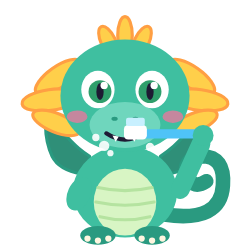
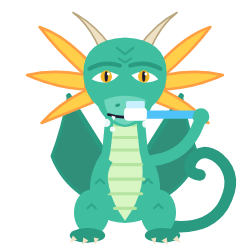
Make Glory look older: graphic-novel style instead of a baby dragon
Horned head on a neck, narrow slit-pupil eyes under brow ridges, a pointed
RainWing ruff, slimmer body and a long curling tail; no blush cheeks. The
jungle bugs get small glowing eyes instead of googly ones. Mouth and teeth
positions move up to match the new head.

diff --git a/prototype/themes/dragon.js b/prototype/themes/dragon.js
@@ -5,6 +5,8 @@
 
   const sparkle = 'M0-11Q2-2 11 0Q2 2 0 11Q-2 2-11 0Q-2-2 0-11Z';
 
+  // Drawn in the style of the graphic novels rather than as a baby dragon: horned head on a
+  // neck, narrow slit-pupil eyes under brow ridges, pointed ruff, long prehensile tail.
   const character = `
 <svg viewBox="0 0 240 240" aria-label="Glory">
   <g class="sparkles">
@@ -16,116 +18,121 @@
 
   <g class="body-all">
     <g class="wings-folded">
-      <path class="wing" d="M86 150 Q58 132 46 100 Q40 128 50 150 Q58 166 88 168 Z"/>
-      <path class="wing" d="M154 150 Q182 132 194 100 Q200 128 190 150 Q182 166 152 168 Z"/>
+      <path class="wing" d="M100 146 L66 92 Q60 124 50 150 Q60 176 84 190 L102 172 Z"/>
+      <path class="wing" d="M140 146 L174 92 Q180 124 190 150 Q180 176 156 190 L138 172 Z"/>
+      <path class="wing-bone" d="M100 146 L66 92 M140 146 L174 92"/>
     </g>
     <g class="wings-open">
-      <path class="wing" d="M92 150 L26 66 Q34 96 14 112 Q36 118 26 142 Q50 142 46 166 Q68 158 92 170 Z"/>
-      <path class="wing" d="M148 150 L214 66 Q206 96 226 112 Q204 118 214 142 Q190 142 194 166 Q172 158 148 170 Z"/>
-      <path class="wing-bone" d="M92 150 L26 66 M148 150 L214 66"/>
+      <path class="wing" d="M98 148 L26 62 Q34 94 14 110 Q36 116 26 140 Q50 140 46 164 Q68 156 96 172 Z"/>
+      <path class="wing" d="M142 148 L214 62 Q206 94 226 110 Q204 116 214 140 Q190 140 194 164 Q172 156 144 172 Z"/>
+      <path class="wing-bone" d="M98 148 L26 62 M142 148 L214 62 M74 104 L36 116 M166 104 L204 116"/>
     </g>
 
-    <path class="tail" d="M158 206 Q212 214 214 178 Q216 150 194 150 Q174 152 180 170 Q186 182 198 174"/>
+    <path class="tail" d="M146 214 Q196 226 214 198 Q230 170 210 152 Q194 140 184 154 Q178 166 192 168"/>
 
-    <ellipse class="scale" cx="120" cy="184" rx="50" ry="44"/>
-    <ellipse class="belly" cx="120" cy="194" rx="30" ry="32"/>
-    <path class="belly-lines" d="M94 180 Q120 186 146 180 M92 194 Q120 200 148 194 M96 208 Q120 214 144 208"/>
-    <ellipse class="scale-dark" cx="94"  cy="226" rx="17" ry="9"/>
-    <ellipse class="scale-dark" cx="146" cy="226" rx="17" ry="9"/>
+    <ellipse class="scale" cx="88" cy="204" rx="17" ry="22"/>
+    <ellipse class="scale" cx="152" cy="204" rx="17" ry="22"/>
+    <path class="scale" d="M102 104 L98 146 Q78 176 92 206 Q120 222 148 206 Q162 176 142 146 L138 104 Z"/>
+    <path class="belly" d="M110 108 Q120 112 130 108 L134 146 Q144 180 120 212 Q96 180 106 146 Z"/>
+    <path class="belly-lines" d="M110 120 H130 M109 132 H131 M108 144 H132 M104 158 H136 M102 172 H138 M104 186 H136 M110 200 H130"/>
+    <ellipse class="scale-dark" cx="84" cy="226" rx="17" ry="7"/>
+    <ellipse class="scale-dark" cx="156" cy="226" rx="17" ry="7"/>
     <g class="claws">
-      <circle cx="84" cy="229" r="3"/><circle cx="94" cy="231" r="3"/><circle cx="104" cy="229" r="3"/>
-      <circle cx="136" cy="229" r="3"/><circle cx="146" cy="231" r="3"/><circle cx="156" cy="229" r="3"/>
+      <path d="M70 226 l-3 7 l7 -3Z M80 228 l-1 7 l6 -4Z M90 228 l1 7 l4 -6Z"/>
+      <path d="M170 226 l3 7 l-7 -3Z M160 228 l1 7 l-6 -4Z M150 228 l-1 7 l-4 -6Z"/>
     </g>
-    <ellipse class="scale arm" cx="76" cy="186" rx="11" ry="17" transform="rotate(25 76 186)"/>
-    <ellipse class="scale arm arm-r" cx="164" cy="186" rx="11" ry="17" transform="rotate(-25 164 186)"/>
+    <path class="scale arm" d="M100 150 Q88 166 96 186 Q102 190 106 184 Q100 168 108 156 Z"/>
+    <path class="scale arm arm-r" d="M140 150 Q152 166 144 186 Q138 190 134 184 Q140 168 132 156 Z"/>
+    <path class="texture" d="M92 176 l4 -4 l4 4 M146 176 l-4 -4 l-4 4 M84 200 l4 -4 l4 4 M156 200 l-4 -4 l-4 4"/>
 
     <g class="frills">
-      <ellipse cx="56"  cy="74"  rx="26" ry="10" transform="rotate(-35 56 74)"/>
-      <ellipse cx="48"  cy="96"  rx="27" ry="10" transform="rotate(-8 48 96)"/>
-      <ellipse cx="54"  cy="118" rx="24" ry="9"  transform="rotate(22 54 118)"/>
-      <ellipse cx="184" cy="74"  rx="26" ry="10" transform="rotate(35 184 74)"/>
-      <ellipse cx="192" cy="96"  rx="27" ry="10" transform="rotate(8 192 96)"/>
-      <ellipse cx="186" cy="118" rx="24" ry="9"  transform="rotate(-22 186 118)"/>
-      <ellipse cx="104" cy="40"  rx="7"  ry="16" transform="rotate(-25 104 40)"/>
-      <ellipse cx="120" cy="34"  rx="7"  ry="18"/>
-      <ellipse cx="136" cy="40"  rx="7"  ry="16" transform="rotate(25 136 40)"/>
+      <path d="M86 60 Q62 34 38 26 Q56 50 84 74 Z"/>
+      <path d="M82 72 Q52 66 26 72 Q52 84 82 86 Z"/>
+      <path d="M84 86 Q58 98 40 118 Q66 108 90 98 Z"/>
+      <path d="M154 60 Q178 34 202 26 Q184 50 156 74 Z"/>
+      <path d="M158 72 Q188 66 214 72 Q188 84 158 86 Z"/>
+      <path d="M156 86 Q182 98 200 118 Q174 108 150 98 Z"/>
+    </g>
+    <g class="horns">
+      <path d="M96 48 Q86 24 70 12 Q90 22 106 44 Z"/>
+      <path d="M144 48 Q154 24 170 12 Q150 22 134 44 Z"/>
     </g>
 
-    <ellipse class="scale" cx="120" cy="92" rx="62" ry="54"/>
-    <ellipse class="snout" cx="120" cy="120" rx="34" ry="22"/>
-    <ellipse class="scale-dark" cx="110" cy="114" rx="3" ry="2"/>
-    <ellipse class="scale-dark" cx="130" cy="114" rx="3" ry="2"/>
+    <path class="scale" d="M80 70 Q80 38 120 36 Q160 38 160 70 Q160 90 146 102 Q138 120 120 122 Q102 120 94 102 Q80 90 80 70 Z"/>
+    <path class="snout" d="M100 96 Q120 88 140 96 Q138 116 120 120 Q102 116 100 96 Z"/>
+    <path class="texture" d="M112 46 l8 6 l8 -6 M114 56 l6 4 l6 -4"/>
+    <ellipse class="scale-dark" cx="113" cy="101" rx="2.5" ry="1.5" transform="rotate(-20 113 101)"/>
+    <ellipse class="scale-dark" cx="127" cy="101" rx="2.5" ry="1.5" transform="rotate(20 127 101)"/>
 
     <g class="eyes-open">
-      <ellipse class="eye-white" cx="94"  cy="86" rx="16" ry="18"/>
-      <ellipse class="eye-white" cx="146" cy="86" rx="16" ry="18"/>
-      <circle class="iris" cx="96"  cy="88" r="11"/>
-      <circle class="iris" cx="144" cy="88" r="11"/>
-      <ellipse class="pupil" cx="96"  cy="88" rx="3.5" ry="8"/>
-      <ellipse class="pupil" cx="144" cy="88" rx="3.5" ry="8"/>
-      <circle class="eye-white" cx="100" cy="82" r="3.5"/>
-      <circle class="eye-white" cx="148" cy="82" r="3.5"/>
+      <path class="eye-white" d="M88 76 Q98 64 114 72 Q104 84 88 76 Z"/>
+      <path class="eye-white" d="M152 76 Q142 64 126 72 Q136 84 152 76 Z"/>
+      <ellipse class="iris" cx="102" cy="73.5" rx="5.5" ry="6"/>
+      <ellipse class="iris" cx="138" cy="73.5" rx="5.5" ry="6"/>
+      <ellipse class="pupil" cx="102" cy="73.5" rx="1.6" ry="5"/>
+      <ellipse class="pupil" cx="138" cy="73.5" rx="1.6" ry="5"/>
+      <circle class="glint" cx="104" cy="71" r="1.4"/>
+      <circle class="glint" cx="140" cy="71" r="1.4"/>
     </g>
     <g class="eyes-closed line">
-      <path d="M78 90 Q94 100 110 90"/>
-      <path d="M130 90 Q146 100 162 90"/>
+      <path d="M88 76 Q100 80 114 74"/>
+      <path d="M152 76 Q140 80 126 74"/>
     </g>
     <g class="eyes-happy line">
-      <path d="M78 94 Q94 76 110 94"/>
-      <path d="M130 94 Q146 76 162 94"/>
+      <path d="M88 78 Q100 68 114 76"/>
+      <path d="M152 78 Q140 68 126 76"/>
     </g>
+    <path class="brow" d="M86 66 Q100 58 115 63 M154 66 Q140 58 125 63"/>
 
-    <ellipse class="cheek" cx="74"  cy="112" rx="10" ry="6"/>
-    <ellipse class="cheek" cx="166" cy="112" rx="10" ry="6"/>
     <g class="mouth">
-      <path class="line" d="M102 128 Q120 140 138 128"/>
-      <path class="fang" d="M108 130 l3 6 l3 -5 Z"/>
-      <path class="fang" d="M126 131 l3 5 l3 -6 Z"/>
+      <path class="line thin" d="M104 110 Q122 116 137 107"/>
+      <path class="fang" d="M107 111 l2 5 l2 -4 Z"/>
+      <path class="fang" d="M129 112 l2 4 l2 -5 Z"/>
     </g>
     <g class="mouth-grin">
-      <path class="mouth-inside" d="M98 124 Q120 150 142 124 Q120 130 98 124 Z"/>
-      <path class="fang" d="M101 126 Q120 132 139 126 L138 131 Q120 138 102 131 Z"/>
+      <path class="mouth-inside" d="M100 106 Q120 124 140 106 Q120 112 100 106 Z"/>
+      <path class="fang" d="M103 107 Q120 112 137 107 L135 111 Q120 116 105 111 Z"/>
     </g>
     <g class="mouth-spit">
-      <ellipse class="mouth-inside" cx="120" cy="132" rx="11" ry="9"/>
-      <path class="fang" d="M111 125 l2 7 l3 -6 Z"/>
-      <path class="fang" d="M124 126 l3 6 l2 -7 Z"/>
-      <circle cx="120" cy="135" r="4.5" fill="#1b1426" stroke="#5dd94a" stroke-width="1.5"/>
+      <ellipse class="mouth-inside" cx="120" cy="112" rx="9" ry="7"/>
+      <path class="fang" d="M113 106 l2 6 l2 -5 Z"/>
+      <path class="fang" d="M123 107 l2 5 l2 -6 Z"/>
+      <circle cx="120" cy="114" r="3.5" fill="#1b1426" stroke="#5dd94a" stroke-width="1.5"/>
     </g>
 
     <g class="foam">
-      <circle cx="100" cy="140" r="5"/>
-      <circle cx="92"  cy="132" r="3.5"/>
-      <circle cx="106" cy="147" r="3"/>
-      <circle cx="144" cy="141" r="4"/>
+      <circle cx="102" cy="118" r="4"/>
+      <circle cx="95"  cy="112" r="3"/>
+      <circle cx="108" cy="124" r="2.5"/>
+      <circle cx="140" cy="119" r="3.5"/>
     </g>
     <g class="brush">
-      <path class="arm-brush" d="M164 182 L184 138"/>
-      <rect class="brush-handle" x="126" y="124" width="60" height="9" rx="4.5"/>
-      <rect class="brush-head" x="110" y="120" width="22" height="14" rx="4"/>
-      <rect class="bristles" x="112" y="113" width="18" height="8" rx="2"/>
-      <circle class="scale" cx="186" cy="130" r="10"/>
+      <path class="arm-brush" d="M138 154 Q170 150 182 118"/>
+      <rect class="brush-handle" x="126" y="106" width="60" height="8" rx="4"/>
+      <rect class="brush-head" x="110" y="103" width="22" height="13" rx="4"/>
+      <rect class="bristles" x="112" y="97" width="18" height="7" rx="2"/>
+      <circle class="scale" cx="184" cy="112" r="8"/>
     </g>
   </g>
 
   <g class="zzz">
-    <text x="178" y="40" font-size="20">z</text>
-    <text x="196" y="22" font-size="26">Z</text>
+    <text x="182" y="40" font-size="20">z</text>
+    <text x="200" y="22" font-size="26">Z</text>
   </g>
 </svg>`;
 
-  // Grumpy jungle bugs from Glory's rainforest: mosquito, beetle, caterpillar, spider.
+  // Jungle bugs from Glory's rainforest: mosquito, beetle, caterpillar, spider.
   // Scared: wide eyes, no frown, "o" mouth.
   const INK = '#1e1a33';
+  // Small glowing eyes, angled and narrowed; scared: wide and round, tiny pupils.
   function face(x, y, s, scared) {
     const f = scared
-      ? `<circle cx="-5.5" cy="-3" r="5.5" fill="#fff"/><circle cx="5.5" cy="-3" r="5.5" fill="#fff"/>
-         <circle cx="-5.5" cy="-3" r="1.8" fill="${INK}"/><circle cx="5.5" cy="-3" r="1.8" fill="${INK}"/>
-         <circle cy="7" r="2.8" fill="${INK}"/>`
-      : `<circle cx="-5.5" cy="-3" r="4.5" fill="#fff"/><circle cx="5.5" cy="-3" r="4.5" fill="#fff"/>
-         <circle cx="-4.5" cy="-2" r="2.2" fill="${INK}"/><circle cx="6.5" cy="-2" r="2.2" fill="${INK}"/>
-         <path d="M-10 -10 L-2 -7 M10 -10 L2 -7" stroke="${INK}" stroke-width="2" stroke-linecap="round"/>
-         <path d="M-5 7 Q0 4 5 7" fill="none" stroke="${INK}" stroke-width="2" stroke-linecap="round"/>`;
+      ? `<circle cx="-5" cy="-2" r="4" fill="#ffe066"/><circle cx="5" cy="-2" r="4" fill="#ffe066"/>
+         <circle cx="-5" cy="-2" r="1.2" fill="${INK}"/><circle cx="5" cy="-2" r="1.2" fill="${INK}"/>
+         <ellipse cy="6" rx="2" ry="2.5" fill="${INK}"/>`
+      : `<path d="M-10 -5 L-1 -1 Q-5 3 -9 0 Z M10 -5 L1 -1 Q5 3 9 0 Z" fill="#ffe066" stroke="${INK}" stroke-width="1.5" stroke-linejoin="round"/>
+         <path d="M-5.5 -2.5 V1.5 M5.5 -2.5 V1.5" stroke="${INK}" stroke-width="1.5" stroke-linecap="round"/>
+         <path d="M-4 7 l1.5 -3 l1.5 3 M1 7 l1.5 -3 l1.5 3" fill="none" stroke="${INK}" stroke-width="1.5" stroke-linejoin="round"/>`;
     return `<g transform="translate(${x} ${y}) scale(${s})">${f}</g>`;
   }
   const leg = (d, w = 2) => `<path d="${d}" fill="none" stroke="${INK}" stroke-width="${w}" stroke-linecap="round"/>`;
@@ -142,7 +149,7 @@
       ${leg('M-13 -4 L-20 -8 M-15 4 L-21 5 M-12 11 L-18 17 M13 -4 L20 -8 M15 4 L21 5 M12 11 L18 17', 2.5)}
       ${leg('M-4 -14 Q-6 -20 -12 -21 M4 -14 Q6 -20 12 -21')}
       <circle cy="1" r="16" fill="${c}"/>
-      <path d="M0 6 L0 17" stroke="#c23a7c" stroke-width="2" stroke-linecap="round"/>
+      <path d="M0 10 L0 17" stroke="#c23a7c" stroke-width="2" stroke-linecap="round"/>
       <circle cx="-8" cy="10" r="2.5" fill="#c23a7c"/><circle cx="8" cy="10" r="2.5" fill="#c23a7c"/>
       <ellipse cx="-9" cy="-9" rx="3" ry="2" fill="#fff" opacity=".5" transform="rotate(-40 -9 -9)"/>
       ${face(0, -1, 1, scared)}` },
@@ -213,8 +220,8 @@
     germParticles: BUGS.map((b) => [b.color, '#1b1426', '#5dd94a']), // melted by venom
     pop: 'venom',                // Glory spits venom at each bug (RainWings don't breathe fire)
     tricks: ['rainbow', 'fly'],  // theme-only tricks, start screen only
-    teeth: [125, 134],           // in the 250x250 buddy box
-    mouth: [125, 137],
+    teeth: [125, 116],           // in the 250x250 buddy box
+    mouth: [125, 118],
     sprites,
     reward,
 
@@ -249,7 +256,7 @@ ${T} .t-bravo {
 /* Scale colours by mood (RainWing!) */
 ${T} .character {
   --scale: #3fbfa0; --scale-dark: #2a9a80; --snout: #6fd6bd; --belly: #d8f5c4; --belly-line: #b5e3a0;
-  --frill: #ffcf4a; --frill-2: #ff9f43; --wing: #2f8f78; --iris: #2f9e6b; --ink: #1e1a33;
+  --frill: #ffcf4a; --frill-2: #ff9f43; --wing: #2f8f78; --iris: #f0b429; --ink: #1e1a33;
 }
 ${T} .character.mood-sleepy {
   --scale: #8a8fe0; --scale-dark: #6c70c4; --snout: #a9adf2; --belly: #e4e2ff; --belly-line: #c9c6f5;
@@ -265,20 +272,24 @@ ${T} .scale-dark { fill: var(--scale-dark); }
 ${T} .snout      { fill: var(--snout); }
 ${T} .belly      { fill: var(--belly); }
 ${T} .belly-lines { fill: none; stroke: var(--belly-line); stroke-width: 3; stroke-linecap: round; }
-${T} .tail       { fill: none; stroke: var(--scale-dark); stroke-width: 14; stroke-linecap: round; }
+${T} .tail       { fill: none; stroke: var(--scale-dark); stroke-width: 11; stroke-linecap: round; }
 ${T} .wing       { fill: var(--wing); stroke: var(--scale-dark); stroke-width: 3; stroke-linejoin: round; }
 ${T} .wing-bone  { fill: none; stroke: var(--scale-dark); stroke-width: 5; stroke-linecap: round; }
-${T} .frills ellipse { fill: var(--frill); stroke: var(--frill-2); stroke-width: 3; }
-${T} .claws      { fill: #fff6e0; }
+${T} .frills path { fill: var(--frill); stroke: var(--frill-2); stroke-width: 2.5; stroke-linejoin: round; }
+${T} .horns      { fill: #efe2c4; stroke: #b9a57c; stroke-width: 1.5; stroke-linejoin: round; }
+${T} .texture    { fill: none; stroke: var(--scale-dark); stroke-width: 2; stroke-linecap: round; stroke-linejoin: round; opacity: .7; }
+${T} .brow       { fill: none; stroke: var(--scale-dark); stroke-width: 4; stroke-linecap: round; }
+${T} .glint      { fill: #fff; }
+${T} .claws      { fill: #efe2c4; }
 ${T} .eye-white  { fill: #fff; }
 ${T} .iris       { fill: var(--iris); }
 ${T} .pupil      { fill: var(--ink); }
-${T} .line       { fill: none; stroke: var(--ink); stroke-width: 4; stroke-linecap: round; }
+${T} .line       { fill: none; stroke: var(--ink); stroke-width: 3.5; stroke-linecap: round; }
+${T} .line.thin  { stroke-width: 2.5; }
 ${T} .fang       { fill: #fff; }
 ${T} .mouth-inside { fill: #4a1f3d; }
-${T} .cheek      { fill: #ff6f9c; opacity: .7; }
 ${T} .foam       { fill: #fff; opacity: .9; }
-${T} .arm-brush  { fill: none; stroke: var(--scale); stroke-width: 18; stroke-linecap: round; }
+${T} .arm-brush  { fill: none; stroke: var(--scale); stroke-width: 11; stroke-linecap: round; }
 ${T} .brush-handle { fill: #4fc3f7; }
 ${T} .brush-head   { fill: #fff; }
 ${T} .bristles     { fill: #c8f0ff; }

diff --git a/device/ui/themes/dragon.c b/device/ui/themes/dragon.c
@@ -13,8 +13,8 @@ const brushy_theme_t brushy_theme_dragon = {
     .pop_whoosh = true,
     .pop = BRUSHY_POP_VENOM,
     .tricks = BRUSHY_TRICK_RAINBOW | BRUSHY_TRICK_FLY,
-    .teeth_x = 125, .teeth_y = 134,
-    .mouth_x = 125, .mouth_y = 137,
+    .teeth_x = 125, .teeth_y = 116,
+    .mouth_x = 125, .mouth_y = 118,
     .germ_particles = { /* jungle bugs melted by venom */
         {0x8a5cff, 0x1b1426, 0x5dd94a},
         {0xff5fa2, 0x1b1426, 0x5dd94a},
